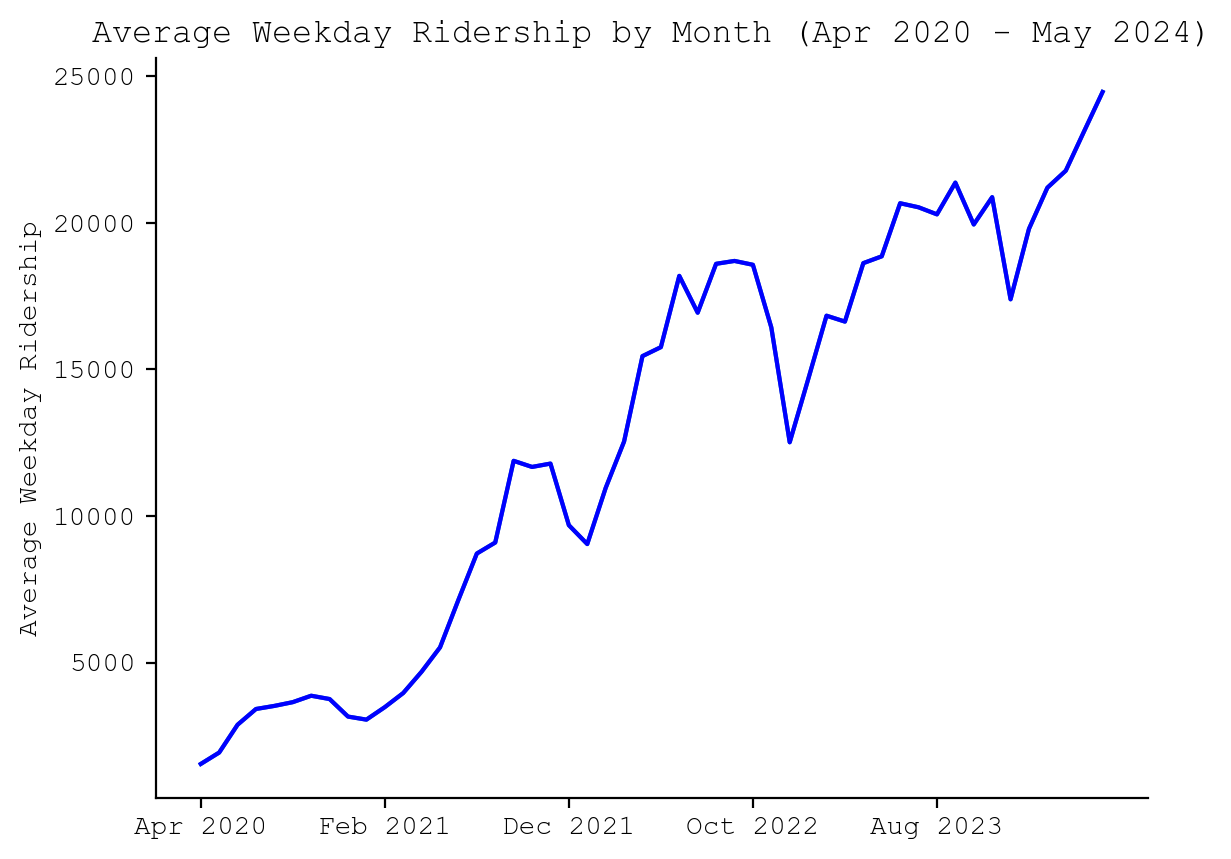
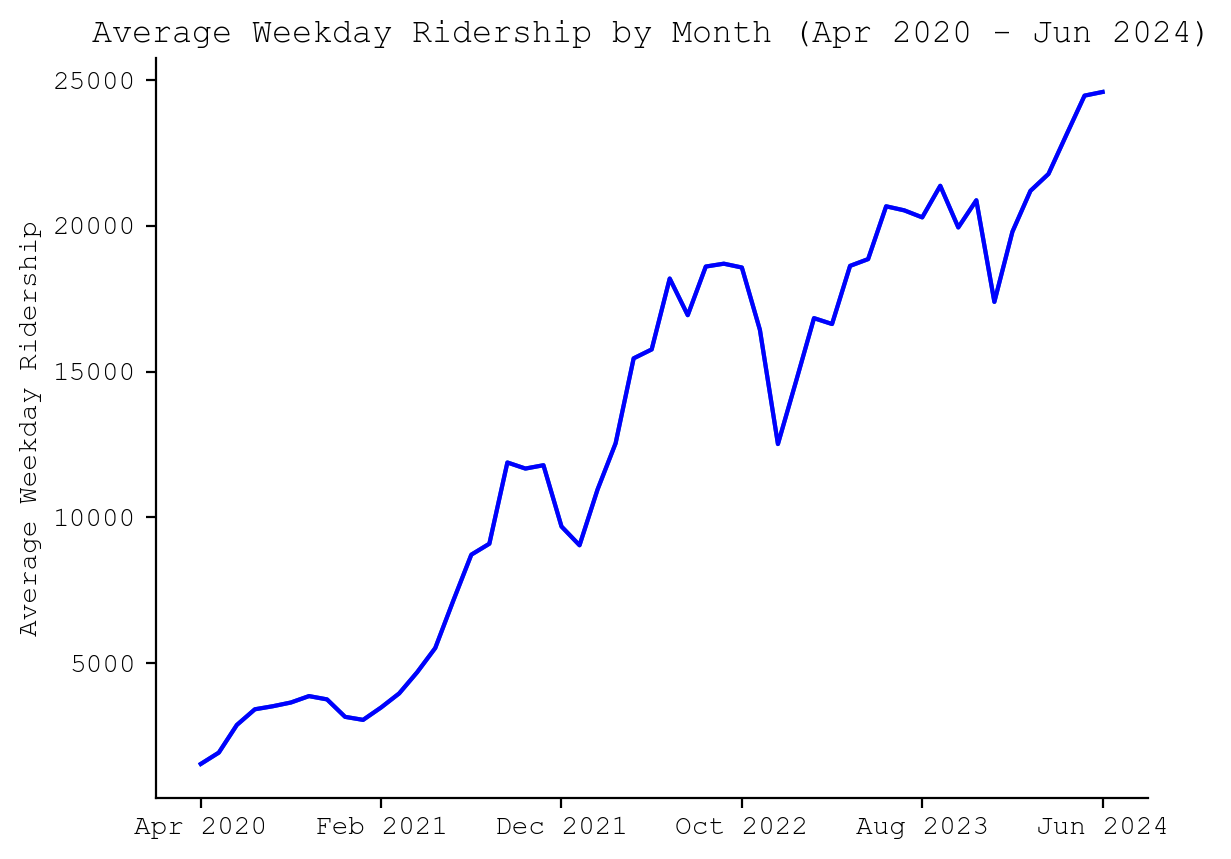
add jun 2024

diff --git a/site/index.html b/site/index.html
@@ -9,29 +9,19 @@
 </head>
 <body>
     <h1>Caltrain Ridership</h1>
-    <p><em>Last updated: 2024-06-30</em></p>    
+    <p><em>Last updated: 2024-07-12</em></p>    
     <div class="news">
         <p>
-            Great news! As of 2024-03-19, Caltrain's website has a ridership page with up-to-date ridership data: <a href="https://www.caltrain.com/about-caltrain/statistics-reports/ridership/fare-media-based">https://www.caltrain.com/about-caltrain/statistics-reports/ridership/fare-media-based</a>.
-        </p>
-        <p>
-            If their ridership stays up to date, I do not plan to continue updating this site, and I plan to make caltrainridership.com redirect to their page.
+            If you're on desktop, Caltrain's new ridership web page has detailed and mostly up-to-date ridership data: <a href="https://www.caltrain.com/about-caltrain/statistics-reports/ridership/fare-media-based">https://www.caltrain.com/about-caltrain/statistics-reports/ridership/fare-media-based</a>. Unfortunately that page does not work on mobile.
         </p>
     </div>
-    <p>~ ~ ~</p>
     <p>
-        This site contains graphs and a table of Caltrain's average weekday ridership from Jul 2017 to May 2024 sourced from <a href="https://www.caltrain.com/past-board-meetings">Caltrain Board of Directors meeting agendas</a> and JPB Citizens Advisory Committee documents.
-        Average weekday ridership is reported with a 1-month lag, so the most recent data is from May 2024.
+        This site contains graphs and a table of Caltrain's average weekday ridership from Jul 2017 to Jun 2024 sourced from <a href="https://www.caltrain.com/about-caltrain/statistics-reports/ridership/fare-media-based">Fare Media Sales-Based Ridership Estimates</a> and JPB Citizens Advisory Committee documents.
+        Average weekday ridership is reported with a 1-month lag, so the most recent data is from Jun 2024.
     </p>
     <p>
         You can find a <a href="https://github.com/iechevarria/caltrain-ridership/blob/main/ridership.csv">CSV</a> of Caltrain's average weekday ridership and the script to generate this site on <a href="https://github.com/iechevarria/caltrain-ridership">GitHub</a>.
         You can find more of my work on my website, <a href="https://echevarria.io">echevarria.io</a>.
-    </p>
-    <h2>Why I made this</h2>
-    <p>
-        It's surprisingly difficult to get a simple graph or table of Caltrain ridership numbers.
-        Caltrain's official <a href="https://web.archive.org/web/20220629064038/https://www.caltrain.com/about-caltrain/statistics-reports/ridership">ridership page</a> has links to three different sources, only one of which, the Caltrain Board of Directors monthly meeting agendas, is up-to-date.
-        The agenda PDFs are not standardized, so I've manually extracted the ridership numbers from each one and made them available here.
     </p>
     <h2>Graphs</h2>
     <img src="ridership-since-2020.png" alt="Caltrain Ridership">
@@ -41,6 +31,10 @@
     <tr>
         <td>Month</td>
         <td>Average weekday ridership</td>
+    </tr>
+    <tr>
+        <td>Jun 2024</td>
+        <td>24583</td>
     </tr>
     <tr>
         <td>May 2024</td>

diff --git a/main.py b/main.py
@@ -42,26 +42,16 @@ def make_html(path, last_month, html_table):
     <p><em>Last updated: {date.today()}</em></p>    
     <div class="news">
         <p>
-            Great news! As of 2024-03-19, Caltrain's website has a ridership page with up-to-date ridership data: <a href="https://www.caltrain.com/about-caltrain/statistics-reports/ridership/fare-media-based">https://www.caltrain.com/about-caltrain/statistics-reports/ridership/fare-media-based</a>.
-        </p>
-        <p>
-            If their ridership stays up to date, I do not plan to continue updating this site, and I plan to make caltrainridership.com redirect to their page.
+            If you're on desktop, Caltrain's new ridership web page has detailed and mostly up-to-date ridership data: <a href="https://www.caltrain.com/about-caltrain/statistics-reports/ridership/fare-media-based">https://www.caltrain.com/about-caltrain/statistics-reports/ridership/fare-media-based</a>. Unfortunately that page does not work on mobile.
         </p>
     </div>
-    <p>~ ~ ~</p>
     <p>
-        This site contains graphs and a table of Caltrain's average weekday ridership from Jul 2017 to {last_month} sourced from <a href="https://www.caltrain.com/past-board-meetings">Caltrain Board of Directors meeting agendas</a> and JPB Citizens Advisory Committee documents.
+        This site contains graphs and a table of Caltrain's average weekday ridership from Jul 2017 to {last_month} sourced from <a href="https://www.caltrain.com/about-caltrain/statistics-reports/ridership/fare-media-based">Fare Media Sales-Based Ridership Estimates</a> and JPB Citizens Advisory Committee documents.
         Average weekday ridership is reported with a 1-month lag, so the most recent data is from {last_month}.
     </p>
     <p>
         You can find a <a href="https://github.com/iechevarria/caltrain-ridership/blob/main/ridership.csv">CSV</a> of Caltrain's average weekday ridership and the script to generate this site on <a href="https://github.com/iechevarria/caltrain-ridership">GitHub</a>.
         You can find more of my work on my website, <a href="https://echevarria.io">echevarria.io</a>.
-    </p>
-    <h2>Why I made this</h2>
-    <p>
-        It's surprisingly difficult to get a simple graph or table of Caltrain ridership numbers.
-        Caltrain's official <a href="https://web.archive.org/web/20220629064038/https://www.caltrain.com/about-caltrain/statistics-reports/ridership">ridership page</a> has links to three different sources, only one of which, the Caltrain Board of Directors monthly meeting agendas, is up-to-date.
-        The agenda PDFs are not standardized, so I've manually extracted the ridership numbers from each one and made them available here.
     </p>
     <h2>Graphs</h2>
     <img src="ridership-since-2020.png" alt="Caltrain Ridership">
